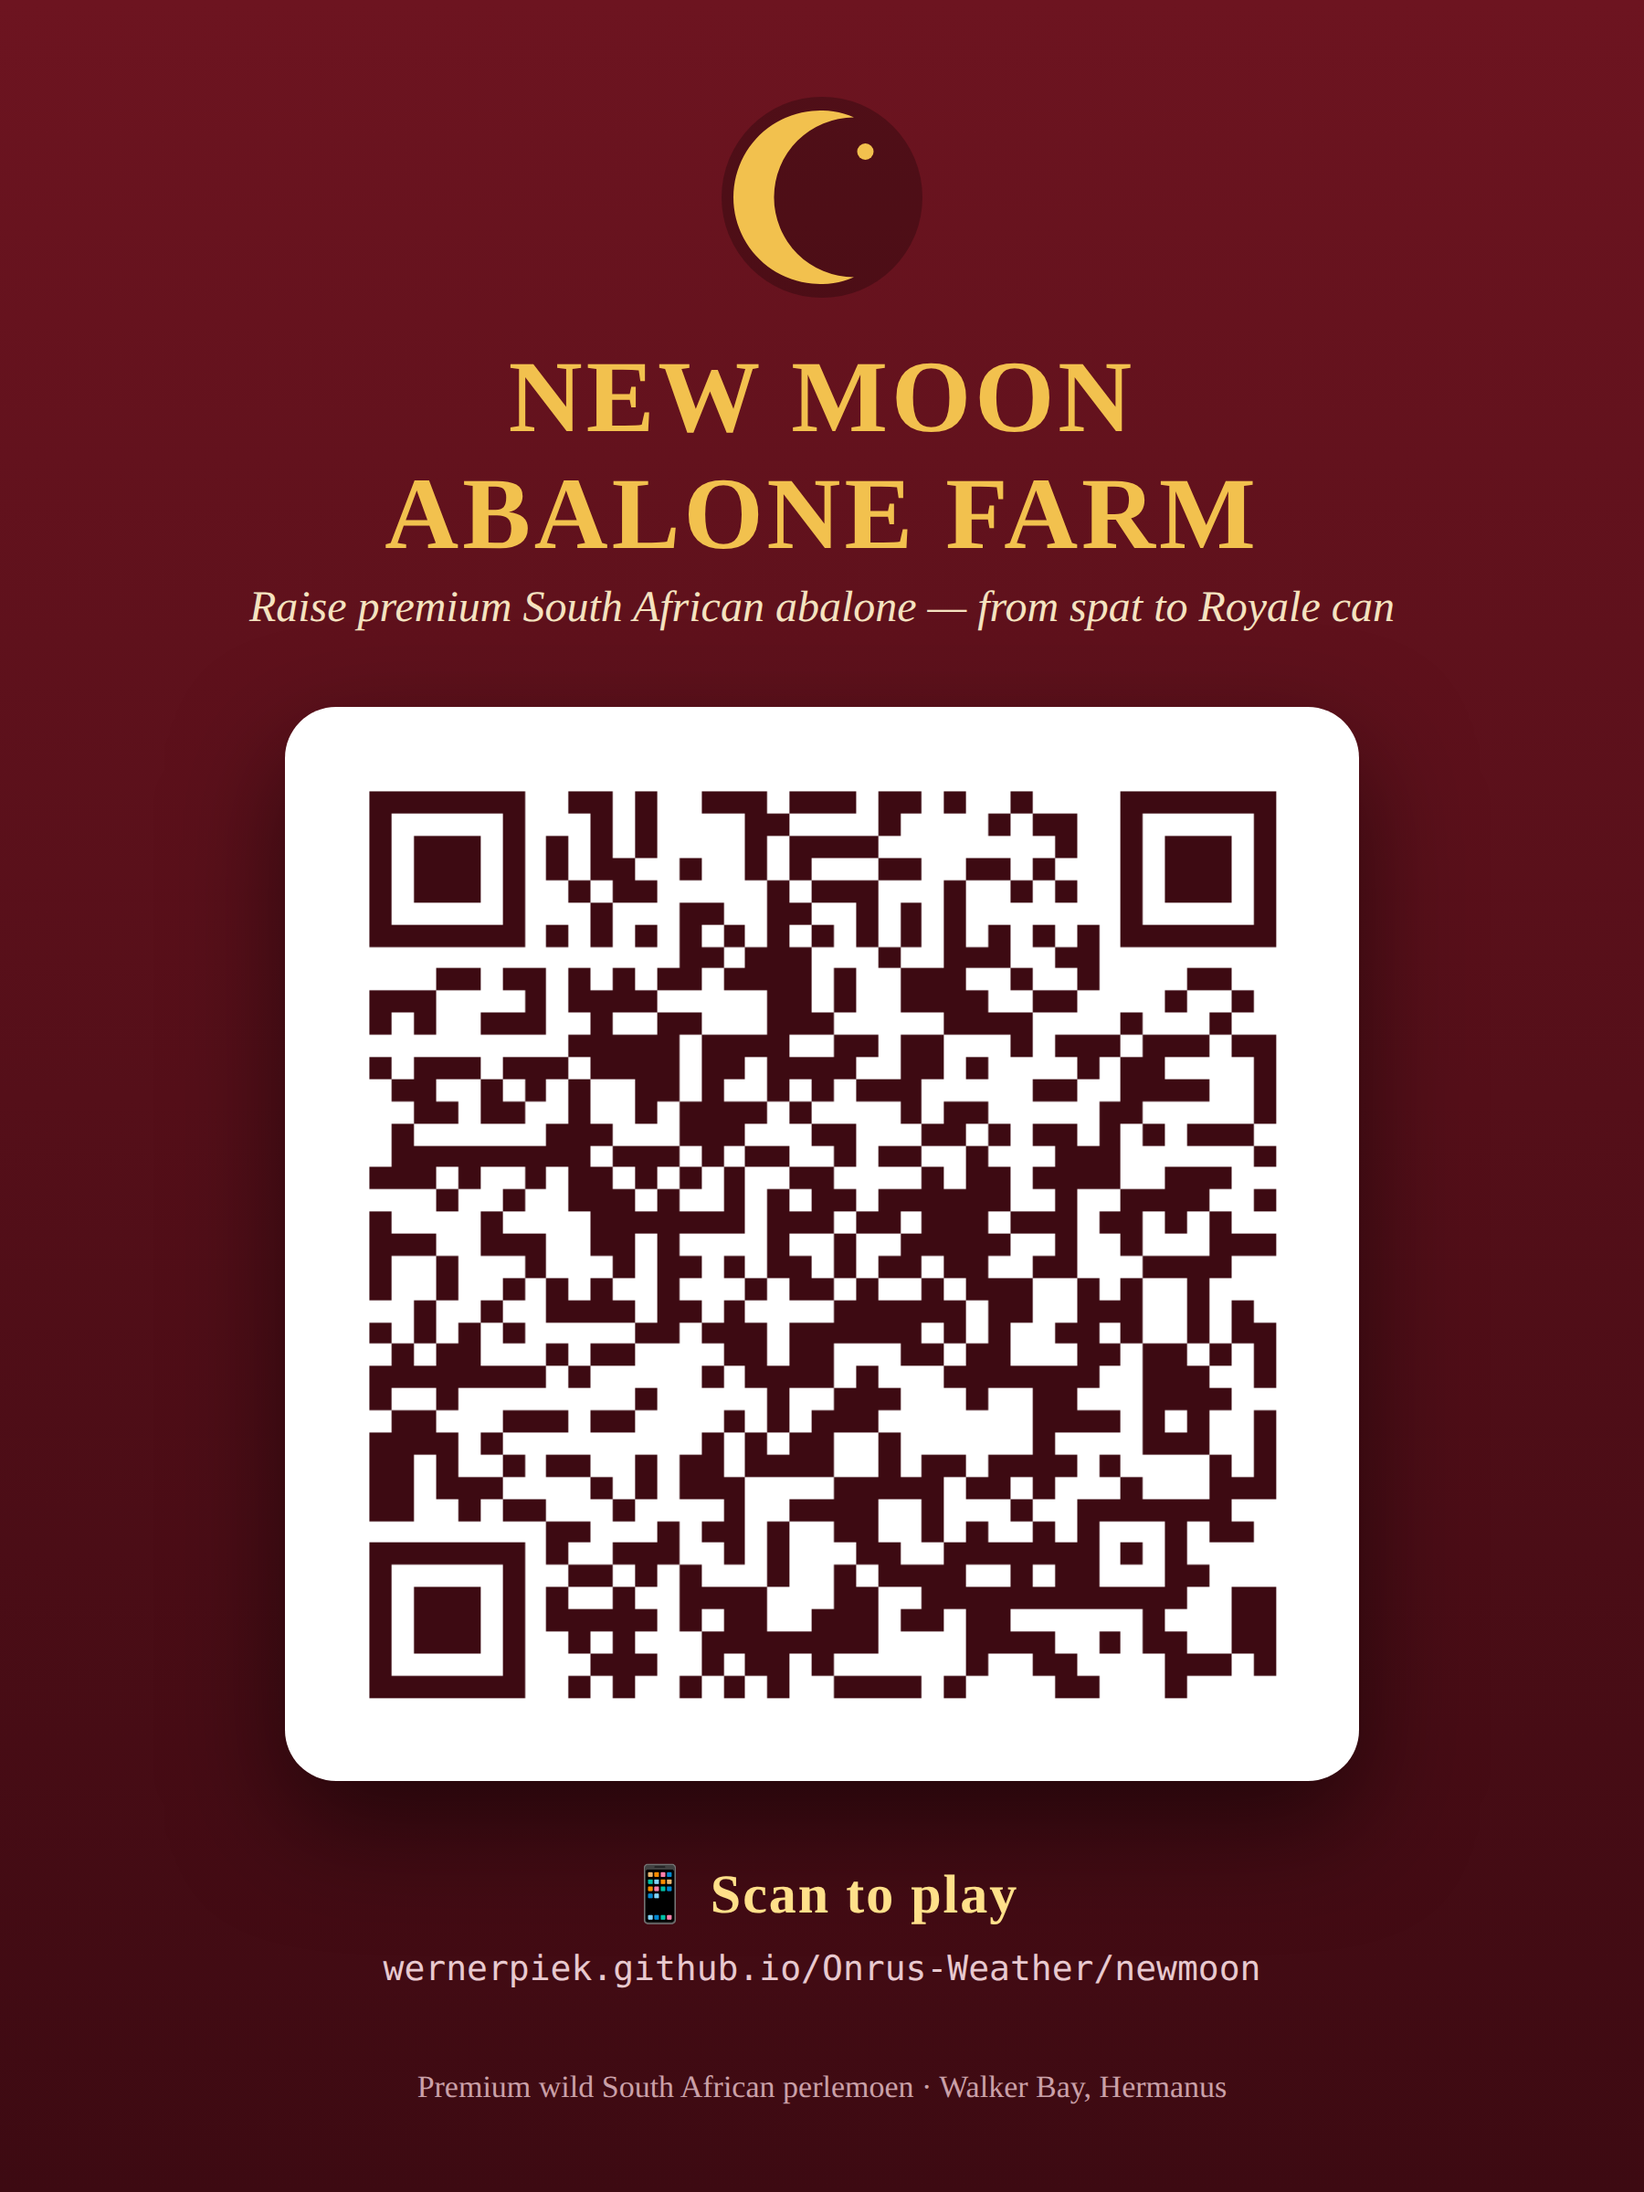
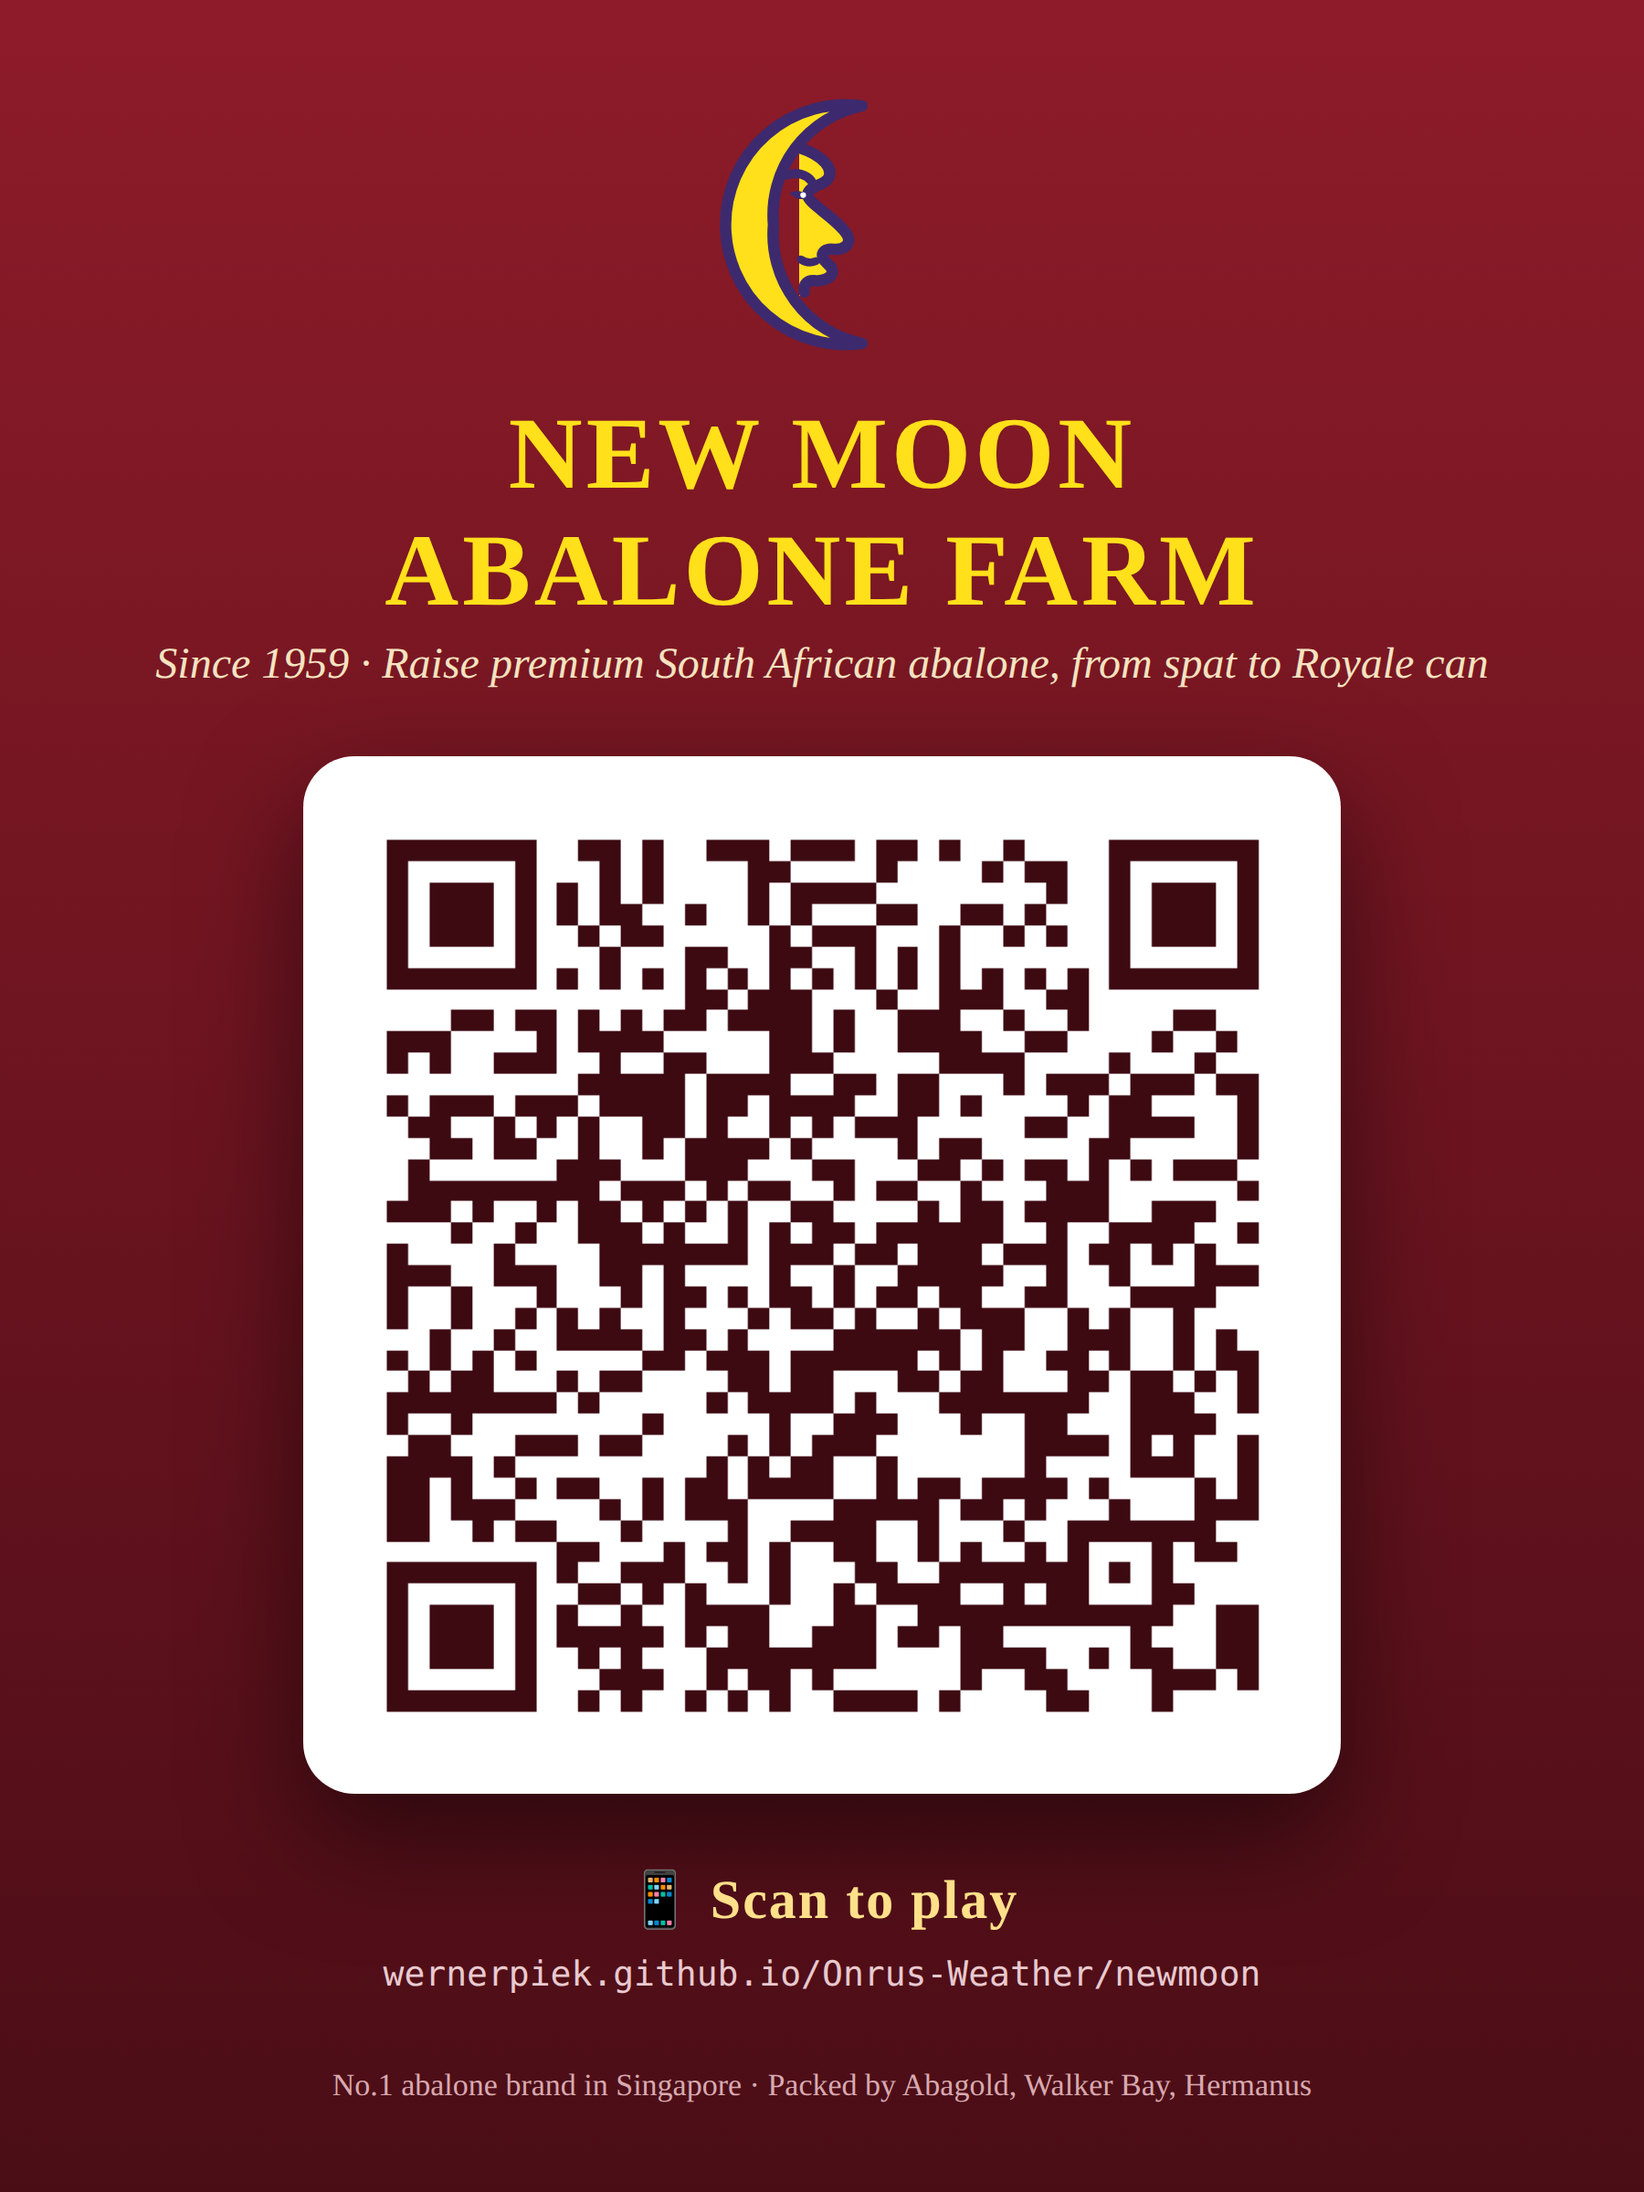
Switch New Moon game to Singapore dollars and refresh QR card (#9)
- All in-game money now shows S$ with en-SG formatting (balance,
  prices, feed/build buttons) instead of South African rand —
  matching the buyer's market.
- QR card regenerated with the traced moon-face logo, the
  "Since 1959" tagline and the No.1-in-Singapore footer; same
  /newmoon/ QR target so printed codes stay valid.
- Cache bumped to newmoon-farm-v3.

Claude-Session: https://claude.ai/code/session_01J87z7HDSfZm8tX2S3n3tha

diff --git a/newmoon/index.html b/newmoon/index.html
@@ -561,7 +561,7 @@ function load(id){
 
 /* ---------------- helpers ---------------- */
 const $  = s=>document.querySelector(s);
-const fmtR = n=>'R'+Math.floor(n).toLocaleString('en-ZA');
+const fmtR = n=>'S$'+Math.floor(n).toLocaleString('en-SG');
 function clamp(v,a,b){return v<a?a:v>b?b:v}
 /* inline mini-icons drawn from the shared artwork (no snail emoji!) */
 function abaIcon(st,px){
@@ -1114,7 +1114,7 @@ function buildZoom(){
       '</div>'+
       '<div class="growrow"><span>'+(st.dur?('→ '+nextName):'👑 '+nextName)+'</span><div class="bar"><i id="zgrowI" style="width:'+growPct+'%"></i></div><span id="zgrowL">'+growPct+'%</span></div>')+
       '<div class="btnrow">'+
-        (empty?'':'<button class="act feed" data-a="feed" data-i="'+i+'" '+(tk.feed>95?'disabled':'')+'>🌿 Feed R'+FEED_COST+'</button>'+
+        (empty?'':'<button class="act feed" data-a="feed" data-i="'+i+'" '+(tk.feed>95?'disabled':'')+'>🌿 Feed S$'+FEED_COST+'</button>'+
         '<button class="act clean" data-a="clean" data-i="'+i+'" '+(tk.clean>95?'disabled':'')+'>🧽 Clean</button>')+
         mainBtn+
       '</div>'+
@@ -1237,7 +1237,7 @@ function tankHTML(tk,i){
       '</div>'+
       '<div class="growrow"><span>'+(st.dur?('→ '+nextName):'👑 '+nextName)+'</span><div class="bar"><i id="t'+i+'growI" style="width:'+growPct+'%"></i></div><span id="t'+i+'growL">'+growPct+'%</span></div>')+
       '<div class="btnrow">'+
-        (empty?'':'<button class="act feed" data-a="feed" data-i="'+i+'" '+(tk.feed>95?'disabled':'')+'>🌿 Feed R'+FEED_COST+'</button>'+
+        (empty?'':'<button class="act feed" data-a="feed" data-i="'+i+'" '+(tk.feed>95?'disabled':'')+'>🌿 Feed S$'+FEED_COST+'</button>'+
         '<button class="act clean" data-a="clean" data-i="'+i+'" '+(tk.clean>95?'disabled':'')+'>🧽 Clean</button>')+
         mainBtn+
       '</div>'+

diff --git a/newmoon/sw.js b/newmoon/sw.js
@@ -1,5 +1,5 @@
 /* Abagold Abalone Farm — offline cache */
-const CACHE = 'newmoon-farm-v2';
+const CACHE = 'newmoon-farm-v3';
 const ASSETS = ['./', './index.html', './manifest.webmanifest', './icon.svg'];
 
 self.addEventListener('install', e => {
